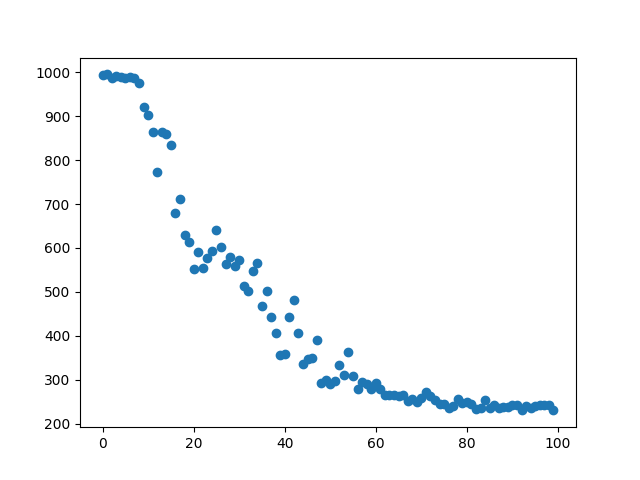
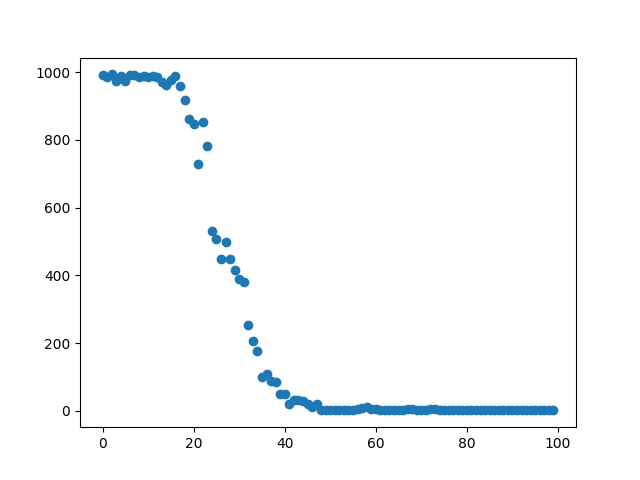
Normalize distances

diff --git a/tsp/TSPEnv.py b/tsp/TSPEnv.py
@@ -52,15 +52,16 @@ class TSPEnv(gym.Env):
     '''
     def __init__(self, *args, **kwargs):
         self.N = 5
-        self.dist_factor = 1/3
+        self.dist_factor = 10
         self.move_cost = -1
         self.invalid_action_cost = -100
         self.mask = False
-        self.spec = SimpleNamespace(reward_threshold=1300)
+        self.spec = SimpleNamespace(reward_threshold=1600)
         self.render_ready = False
         utils.assign_env_config(self, kwargs)
 
         self.locations = []
+        self.min_dist = -1
         self.step_count = 0
         self.nodes = np.arange(self.N)
         self.step_limit = 2*self.N
@@ -95,7 +96,8 @@ class TSPEnv(gym.Env):
         # Move to new node
         # else:
         self.path.append(action)
-        dist = np.sqrt(self._node_sqdist(self.current_node, action))
+        # Todo: reward based on comparison to minimum path instead of absolute distance (varies too much)
+        dist = np.sqrt(self._node_sqdist(self.current_node, action)) / self.min_dist
         self.dist_sum += dist
         reward = -dist * self.dist_factor
         # reward = 0
@@ -121,15 +123,13 @@ class TSPEnv(gym.Env):
         unique_visits = sum([1 if v > 0 else 0 
             for v in self.visit_log.values()])
         if unique_visits >= self.N:
-            done = True
-            # print(f"DONE! {self.path}")
-            # print("DONE!")
-            reward += 1000
-        if self.step_count >= self.step_limit:
-            self.path.append(path[0])
+            self.path.append(self.path[0])
             dist = np.sqrt(self._node_sqdist(self.current_node, action))
             self.dist_sum += dist
             reward -= dist * self.dist_factor
+            done = True
+            reward += 500
+        if self.step_count >= self.step_limit:
             done = True
             
         if done and self.render_ready:
@@ -181,6 +181,9 @@ class TSPEnv(gym.Env):
         self.locations.clear()
         for i in range(self.N):
             self.locations.append((np.random.randint(0,100), np.random.randint(0,100)))
+        self.min_dist = self.find_min_dist([self.current_node])
+        # print(self.min_dist)
+        
 
     def _update_state(self):
         # node_connections = self.adjacency_matrix.copy()
@@ -279,6 +282,22 @@ class TSPEnv(gym.Env):
         # print('render!')
         #self.plot_network()
 
+    def find_min_dist(self, arr):
+        low = 9999999
+        low_i = -1
+        unique = 0
+        for i in range(self.N):
+            if arr.count(i) == 0:
+                md = self.find_min_dist(arr + [i]) + np.sqrt(self._node_sqdist(arr[-1], i))
+                if md < low:
+                    low = md
+                    low_i = i
+            else:
+                unique += 1
+        if unique == self.N:
+            return np.sqrt(self._node_sqdist(arr[-1] ,arr[0]))
+        return low
+                
 
 def save_steps_log():
     # print(steps_log)

diff --git a/tsp/tsp.py b/tsp/tsp.py
@@ -52,7 +52,7 @@ env = TSPEnv()
 state_shape = env.observation_space.shape or env.observation_space.n
 action_shape = env.action_space.shape or env.action_space.n
 net = Net(state_shape, action_shape)
-optim = torch.optim.Adam(net.parameters(), lr=2e-3)
+optim = torch.optim.Adam(net.parameters(), lr=1e-3)
 
 policy = ts.policy.DQNPolicy(
     model=net,
